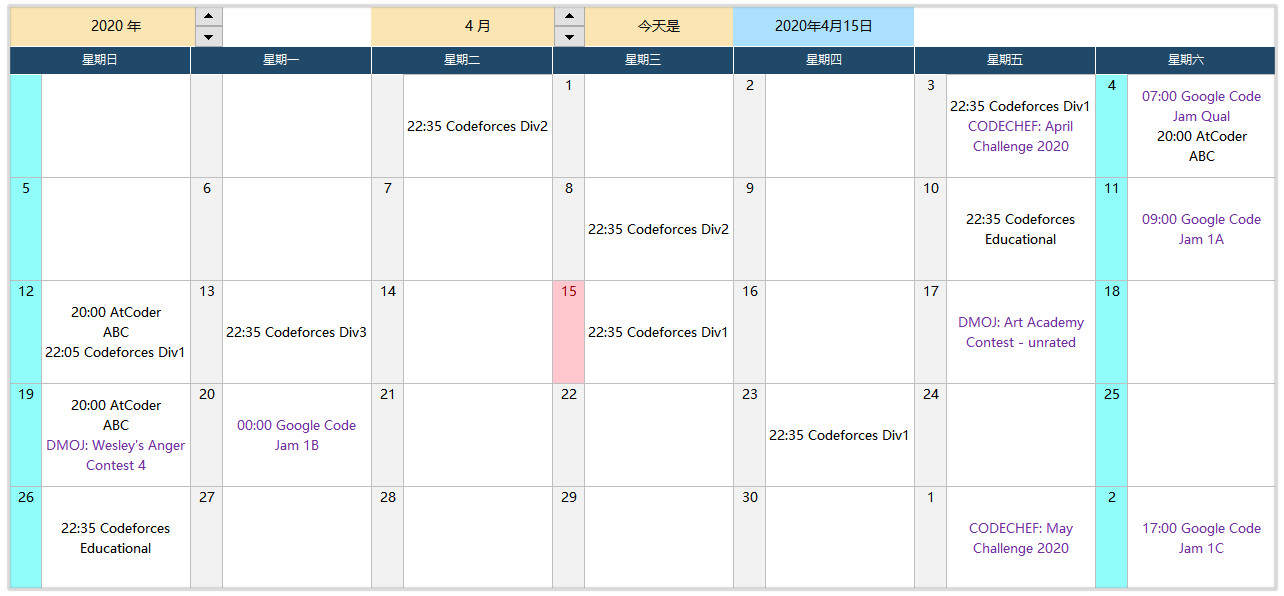
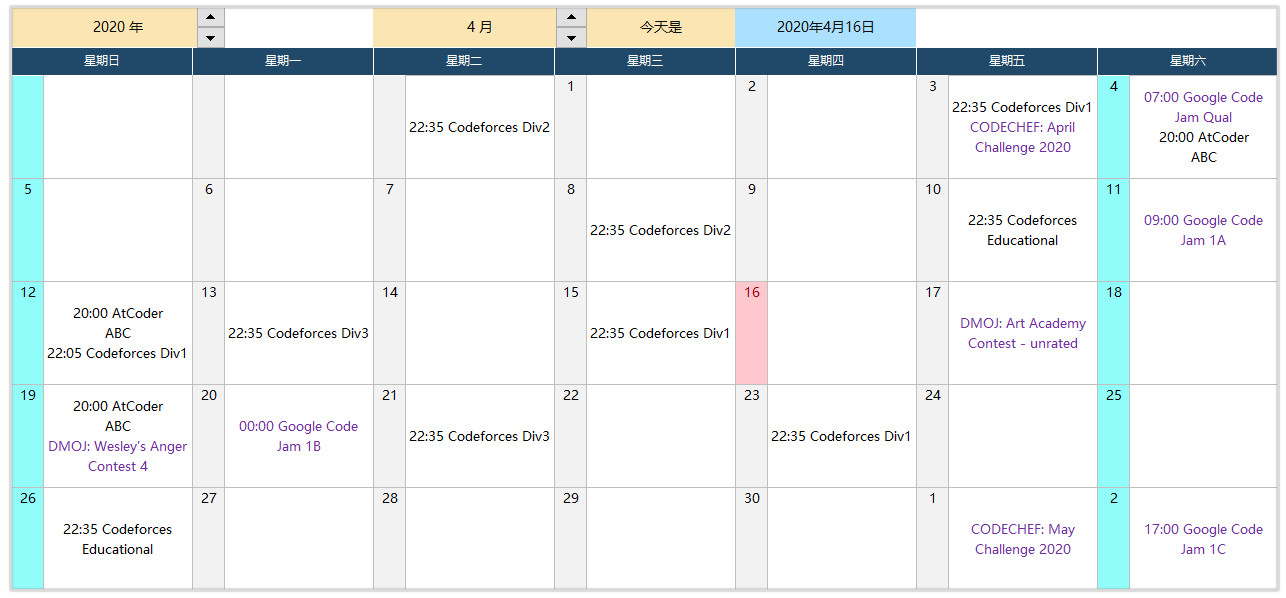
Site updated: 2020-04-16 07:19:03

diff --git a/2020/04/07/Recent-and-Upcoming-Contests/index.html b/2020/04/07/Recent-and-Upcoming-Contests/index.html
@@ -20,16 +20,16 @@
     var CONFIG = {"hostname":"wygz.github.io","root":"/","scheme":"Gemini","version":"7.8.0","exturl":false,"sidebar":{"position":"left","display":"post","padding":18,"offset":12,"onmobile":false},"copycode":{"enable":true,"show_result":false,"style":null},"back2top":{"enable":true,"sidebar":false,"scrollpercent":true},"bookmark":{"enable":false,"color":"#222","save":"auto"},"fancybox":false,"mediumzoom":false,"lazyload":false,"pangu":false,"comments":{"style":"tabs","active":null,"storage":true,"lazyload":false,"nav":null},"algolia":{"hits":{"per_page":10},"labels":{"input_placeholder":"Search for Posts","hits_empty":"We didn't find any results for the search: ${query}","hits_stats":"${hits} results found in ${time} ms"}},"localsearch":{"enable":true,"trigger":"auto","top_n_per_article":1,"unescape":false,"preload":false},"motion":{"enable":true,"async":false,"transition":{"post_block":"fadeIn","post_header":"slideDownIn","post_body":"slideDownIn","coll_header":"slideLeftIn","sidebar":"slideUpIn"}},"path":"search.xml"};
   </script>
 
-  <meta name="description" content="Upcoming Contests04&#x2F;15（周三）    22:35    Codeforces Round #635 (Div. 1)04&#x2F;15（周三）    22:35    Codeforces Round #635 (Div. 2)04&#x2F;19（周日）    20:00     AtCoder Beginner Contest 16304&#x2F;23（周三）    22:35    Codefo">
+  <meta name="description" content="Upcoming Contests04&#x2F;19（周日）    20:00     AtCoder Beginner Contest 16304&#x2F;21（周二）    22:35    Codeforces Round #636 (Div. 3)04&#x2F;23（周三）    22:35    Codeforces Round #637 (Div. 1)04&#x2F;23（周三）    22:35    Codefo">
 <meta property="og:type" content="article">
 <meta property="og:title" content="近期在线比赛链接">
 <meta property="og:url" content="http://wygz.github.io/2020/04/07/Recent-and-Upcoming-Contests/index.html">
 <meta property="og:site_name" content="无忧公主的笔记">
-<meta property="og:description" content="Upcoming Contests04&#x2F;15（周三）    22:35    Codeforces Round #635 (Div. 1)04&#x2F;15（周三）    22:35    Codeforces Round #635 (Div. 2)04&#x2F;19（周日）    20:00     AtCoder Beginner Contest 16304&#x2F;23（周三）    22:35    Codefo">
+<meta property="og:description" content="Upcoming Contests04&#x2F;19（周日）    20:00     AtCoder Beginner Contest 16304&#x2F;21（周二）    22:35    Codeforces Round #636 (Div. 3)04&#x2F;23（周三）    22:35    Codeforces Round #637 (Div. 1)04&#x2F;23（周三）    22:35    Codefo">
 <meta property="og:locale" content="en_US">
 <meta property="og:image" content="http://wygz.github.io/downloads/cal.jpg">
 <meta property="article:published_time" content="2020-04-07T01:20:04.000Z">
-<meta property="article:modified_time" content="2020-04-15T11:07:27.221Z">
+<meta property="article:modified_time" content="2020-04-15T23:17:28.133Z">
 <meta property="article:author" content="WYGZ">
 <meta name="twitter:card" content="summary">
 <meta name="twitter:image" content="http://wygz.github.io/downloads/cal.jpg">
@@ -231,7 +231,7 @@
                   <i class="far fa-calendar-check"></i>
                 </span>
                 <span class="post-meta-item-text">Edited on</span>
-                <time title="Modified: 2020-04-15 19:07:27" itemprop="dateModified" datetime="2020-04-15T19:07:27+08:00">2020-04-15</time>
+                <time title="Modified: 2020-04-16 07:17:28" itemprop="dateModified" datetime="2020-04-16T07:17:28+08:00">2020-04-16</time>
               </span>
 
           
@@ -245,9 +245,9 @@
     <div class="post-body" itemprop="articleBody">
 
       
-        <h5 id="Upcoming-Contests"><a href="#Upcoming-Contests" class="headerlink" title="Upcoming Contests"></a>Upcoming Contests</h5><p>04/15（周三）    22:35    <a href="https://codeforces.com/contests" target="_blank" rel="noopener">Codeforces Round #635 (Div. 1)</a><br>04/15（周三）    22:35    <a href="https://codeforces.com/contests" target="_blank" rel="noopener">Codeforces Round #635 (Div. 2)</a><br>04/19（周日）    20:00     <a href="https://atcoder.jp/contests/abc163" target="_blank" rel="noopener">AtCoder Beginner Contest 163</a><br>04/23（周三）    22:35    <a href="https://codeforces.com/contests" target="_blank" rel="noopener">Codeforces Round #636 (Div. 1)</a><br>04/23（周三）    22:35    <a href="https://codeforces.com/contests" target="_blank" rel="noopener">Codeforces Round #636 (Div. 2)</a><br>04/26（周日）    22:35    <a href="https://codeforces.com/contests" target="_blank" rel="noopener">Codeforces Edu. Round 86</a></p>
+        <h5 id="Upcoming-Contests"><a href="#Upcoming-Contests" class="headerlink" title="Upcoming Contests"></a>Upcoming Contests</h5><p>04/19（周日）    20:00     <a href="https://atcoder.jp/contests/abc163" target="_blank" rel="noopener">AtCoder Beginner Contest 163</a><br>04/21（周二）    22:35    <a href="https://codeforces.com/contests" target="_blank" rel="noopener">Codeforces Round #636 (Div. 3)</a><br>04/23（周三）    22:35    <a href="https://codeforces.com/contests" target="_blank" rel="noopener">Codeforces Round #637 (Div. 1)</a><br>04/23（周三）    22:35    <a href="https://codeforces.com/contests" target="_blank" rel="noopener">Codeforces Round #637 (Div. 2)</a><br>04/26（周日）    22:35    <a href="https://codeforces.com/contests" target="_blank" rel="noopener">Codeforces Edu. Round 86</a></p>
 <a id="more"></a>
-<h5 id="Recent-Contests"><a href="#Recent-Contests" class="headerlink" title="Recent Contests"></a>Recent Contests</h5><p>04/13（周一）    22:35    <a href="https://codeforces.com/contest/1335" target="_blank" rel="noopener">Codeforces Round #634 (Div. 3)</a><br>04/12（周日）    20:00     <a href="https://atcoder.jp/contests/abc162" target="_blank" rel="noopener">AtCoder Beginner Contest 162</a><br>04/12（周日）    22:05    <a href="https://codeforces.com/contest/1338" target="_blank" rel="noopener">Codeforces Round #633 (Div. 1)</a><br>04/12（周日）    22:05    <a href="https://codeforces.com/contest/1339" target="_blank" rel="noopener">Codeforces Round #633 (Div. 2)</a><br>04/10（周五）    22:35    <a href="https://codeforces.com/contest/1334" target="_blank" rel="noopener">Codeforces Edu. Round 85</a><br>04/08（周三）    22:35     <a href="https://codeforces.com/contest/1333" target="_blank" rel="noopener">Codeforces Round #632 (Div. 2)</a><br>04/04（周六）    20:00     <a href="https://atcoder.jp/contests/abc161" target="_blank" rel="noopener">AtCoder Beginner Contest 161</a><br>04/03（周五）    22:35     <a href="https://codeforces.com/contest/1329" target="_blank" rel="noopener">Codeforces Round #631 (Div. 1)</a><br>04/03（周五）    22:35     <a href="https://codeforces.com/contest/1330" target="_blank" rel="noopener">Codeforces Round #631 (Div. 2)</a></p>
+<h5 id="Recent-Contests"><a href="#Recent-Contests" class="headerlink" title="Recent Contests"></a>Recent Contests</h5><p>04/15（周三）    22:35    <a href="https://codeforces.com/contest/1336" target="_blank" rel="noopener">Codeforces Round #635 (Div. 1)</a><br>04/15（周三）    22:35    <a href="https://codeforces.com/contest/1337" target="_blank" rel="noopener">Codeforces Round #635 (Div. 2)</a><br>04/13（周一）    22:35    <a href="https://codeforces.com/contest/1335" target="_blank" rel="noopener">Codeforces Round #634 (Div. 3)</a><br>04/12（周日）    20:00     <a href="https://atcoder.jp/contests/abc162" target="_blank" rel="noopener">AtCoder Beginner Contest 162</a><br>04/12（周日）    22:05    <a href="https://codeforces.com/contest/1338" target="_blank" rel="noopener">Codeforces Round #633 (Div. 1)</a><br>04/12（周日）    22:05    <a href="https://codeforces.com/contest/1339" target="_blank" rel="noopener">Codeforces Round #633 (Div. 2)</a><br>04/10（周五）    22:35    <a href="https://codeforces.com/contest/1334" target="_blank" rel="noopener">Codeforces Edu. Round 85</a><br>04/08（周三）    22:35     <a href="https://codeforces.com/contest/1333" target="_blank" rel="noopener">Codeforces Round #632 (Div. 2)</a><br>04/04（周六）    20:00     <a href="https://atcoder.jp/contests/abc161" target="_blank" rel="noopener">AtCoder Beginner Contest 161</a><br>04/03（周五）    22:35     <a href="https://codeforces.com/contest/1329" target="_blank" rel="noopener">Codeforces Round #631 (Div. 1)</a><br>04/03（周五）    22:35     <a href="https://codeforces.com/contest/1330" target="_blank" rel="noopener">Codeforces Round #631 (Div. 2)</a></p>
 <h5 id="Calendar"><a href="#Calendar" class="headerlink" title="Calendar"></a>Calendar</h5><p><img src="\downloads\cal.jpg" alt="image" style="zoom:90%;" /></p>
 
     </div>

diff --git a/index.html b/index.html
@@ -225,7 +225,7 @@
                   <i class="far fa-calendar-check"></i>
                 </span>
                 <span class="post-meta-item-text">Edited on</span>
-                <time title="Modified: 2020-04-15 19:07:27" itemprop="dateModified" datetime="2020-04-15T19:07:27+08:00">2020-04-15</time>
+                <time title="Modified: 2020-04-16 07:17:28" itemprop="dateModified" datetime="2020-04-16T07:17:28+08:00">2020-04-16</time>
               </span>
 
           
@@ -239,7 +239,7 @@
     <div class="post-body" itemprop="articleBody">
 
       
-          <h5 id="Upcoming-Contests"><a href="#Upcoming-Contests" class="headerlink" title="Upcoming Contests"></a>Upcoming Contests</h5><p>04/15（周三）    22:35    <a href="https://codeforces.com/contests" target="_blank" rel="noopener">Codeforces Round #635 (Div. 1)</a><br>04/15（周三）    22:35    <a href="https://codeforces.com/contests" target="_blank" rel="noopener">Codeforces Round #635 (Div. 2)</a><br>04/19（周日）    20:00     <a href="https://atcoder.jp/contests/abc163" target="_blank" rel="noopener">AtCoder Beginner Contest 163</a><br>04/23（周三）    22:35    <a href="https://codeforces.com/contests" target="_blank" rel="noopener">Codeforces Round #636 (Div. 1)</a><br>04/23（周三）    22:35    <a href="https://codeforces.com/contests" target="_blank" rel="noopener">Codeforces Round #636 (Div. 2)</a><br>04/26（周日）    22:35    <a href="https://codeforces.com/contests" target="_blank" rel="noopener">Codeforces Edu. Round 86</a></p>
+          <h5 id="Upcoming-Contests"><a href="#Upcoming-Contests" class="headerlink" title="Upcoming Contests"></a>Upcoming Contests</h5><p>04/19（周日）    20:00     <a href="https://atcoder.jp/contests/abc163" target="_blank" rel="noopener">AtCoder Beginner Contest 163</a><br>04/21（周二）    22:35    <a href="https://codeforces.com/contests" target="_blank" rel="noopener">Codeforces Round #636 (Div. 3)</a><br>04/23（周三）    22:35    <a href="https://codeforces.com/contests" target="_blank" rel="noopener">Codeforces Round #637 (Div. 1)</a><br>04/23（周三）    22:35    <a href="https://codeforces.com/contests" target="_blank" rel="noopener">Codeforces Round #637 (Div. 2)</a><br>04/26（周日）    22:35    <a href="https://codeforces.com/contests" target="_blank" rel="noopener">Codeforces Edu. Round 86</a></p>
           <!--noindex-->
             <div class="post-button">
               <a class="btn" href="/2020/04/07/Recent-and-Upcoming-Contests/#more" rel="contents">
